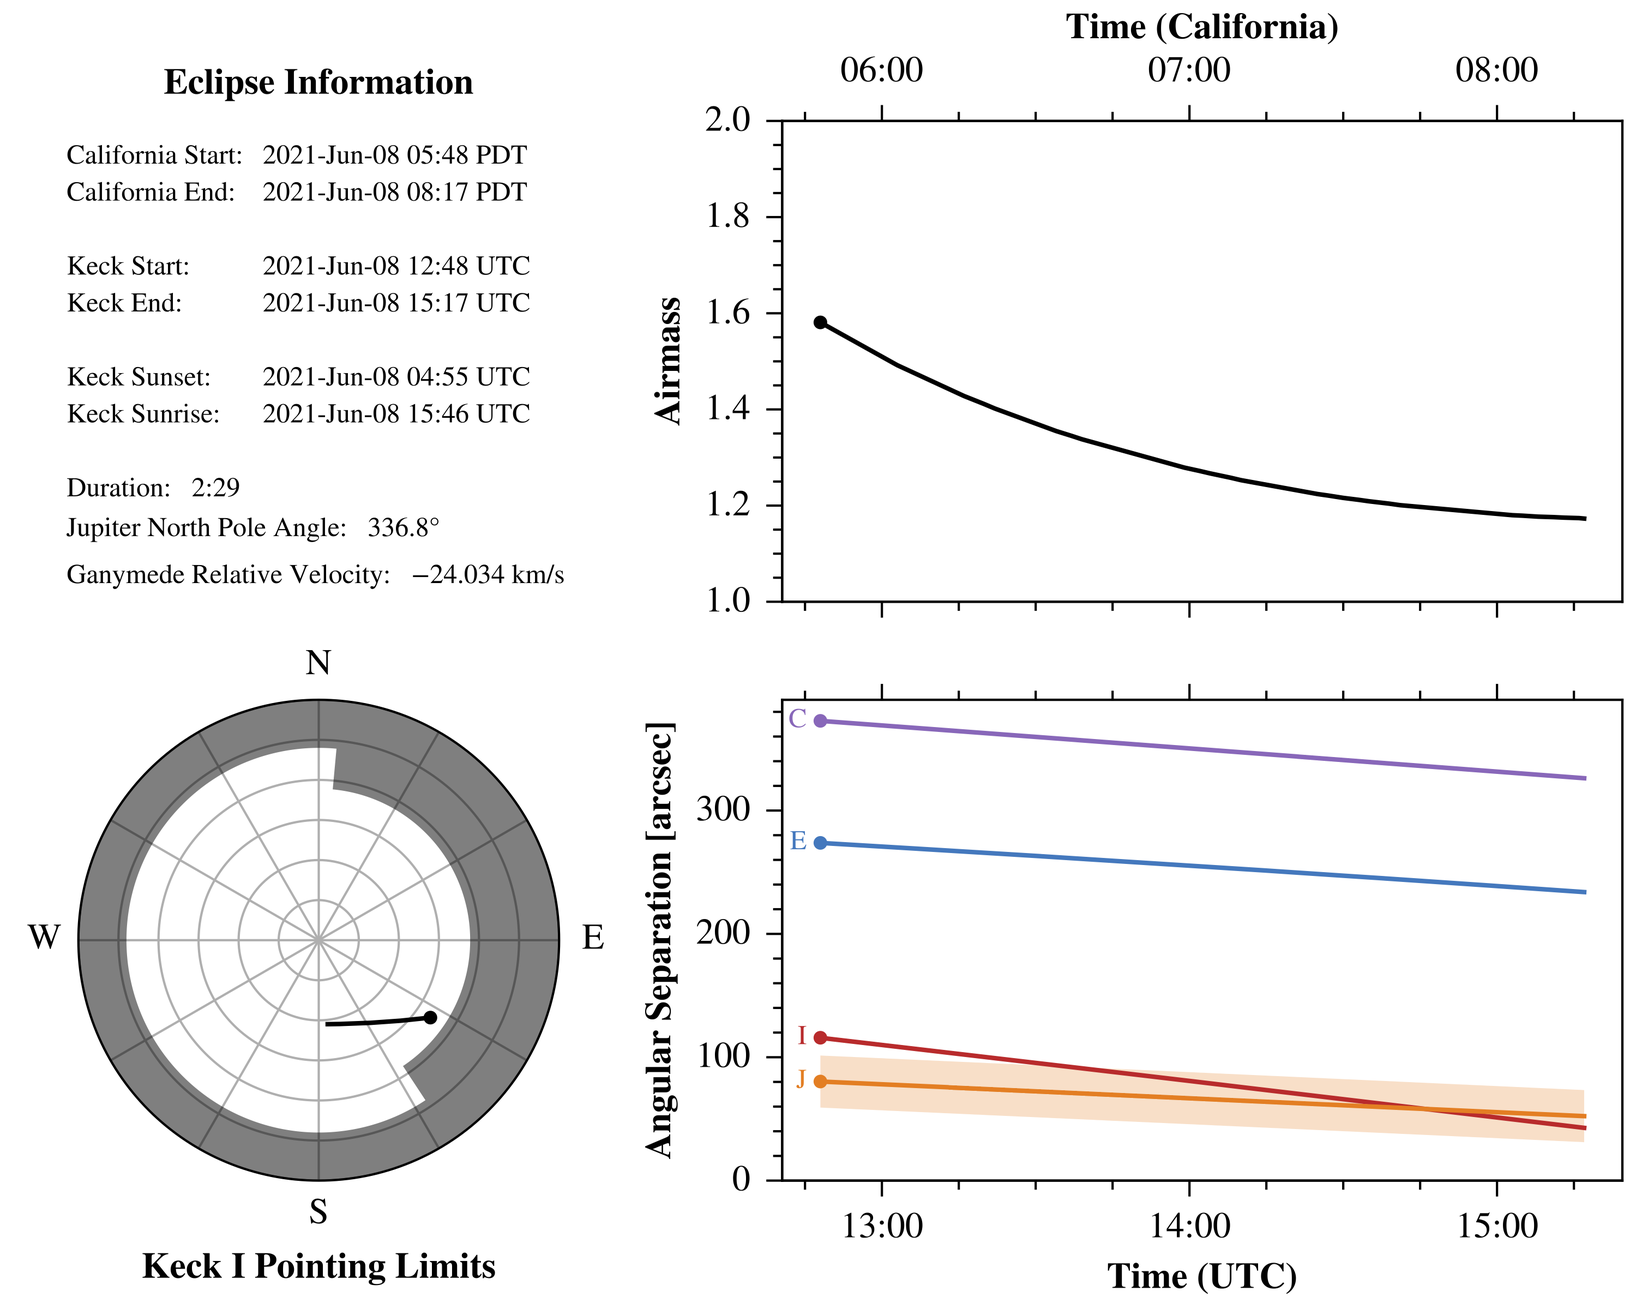
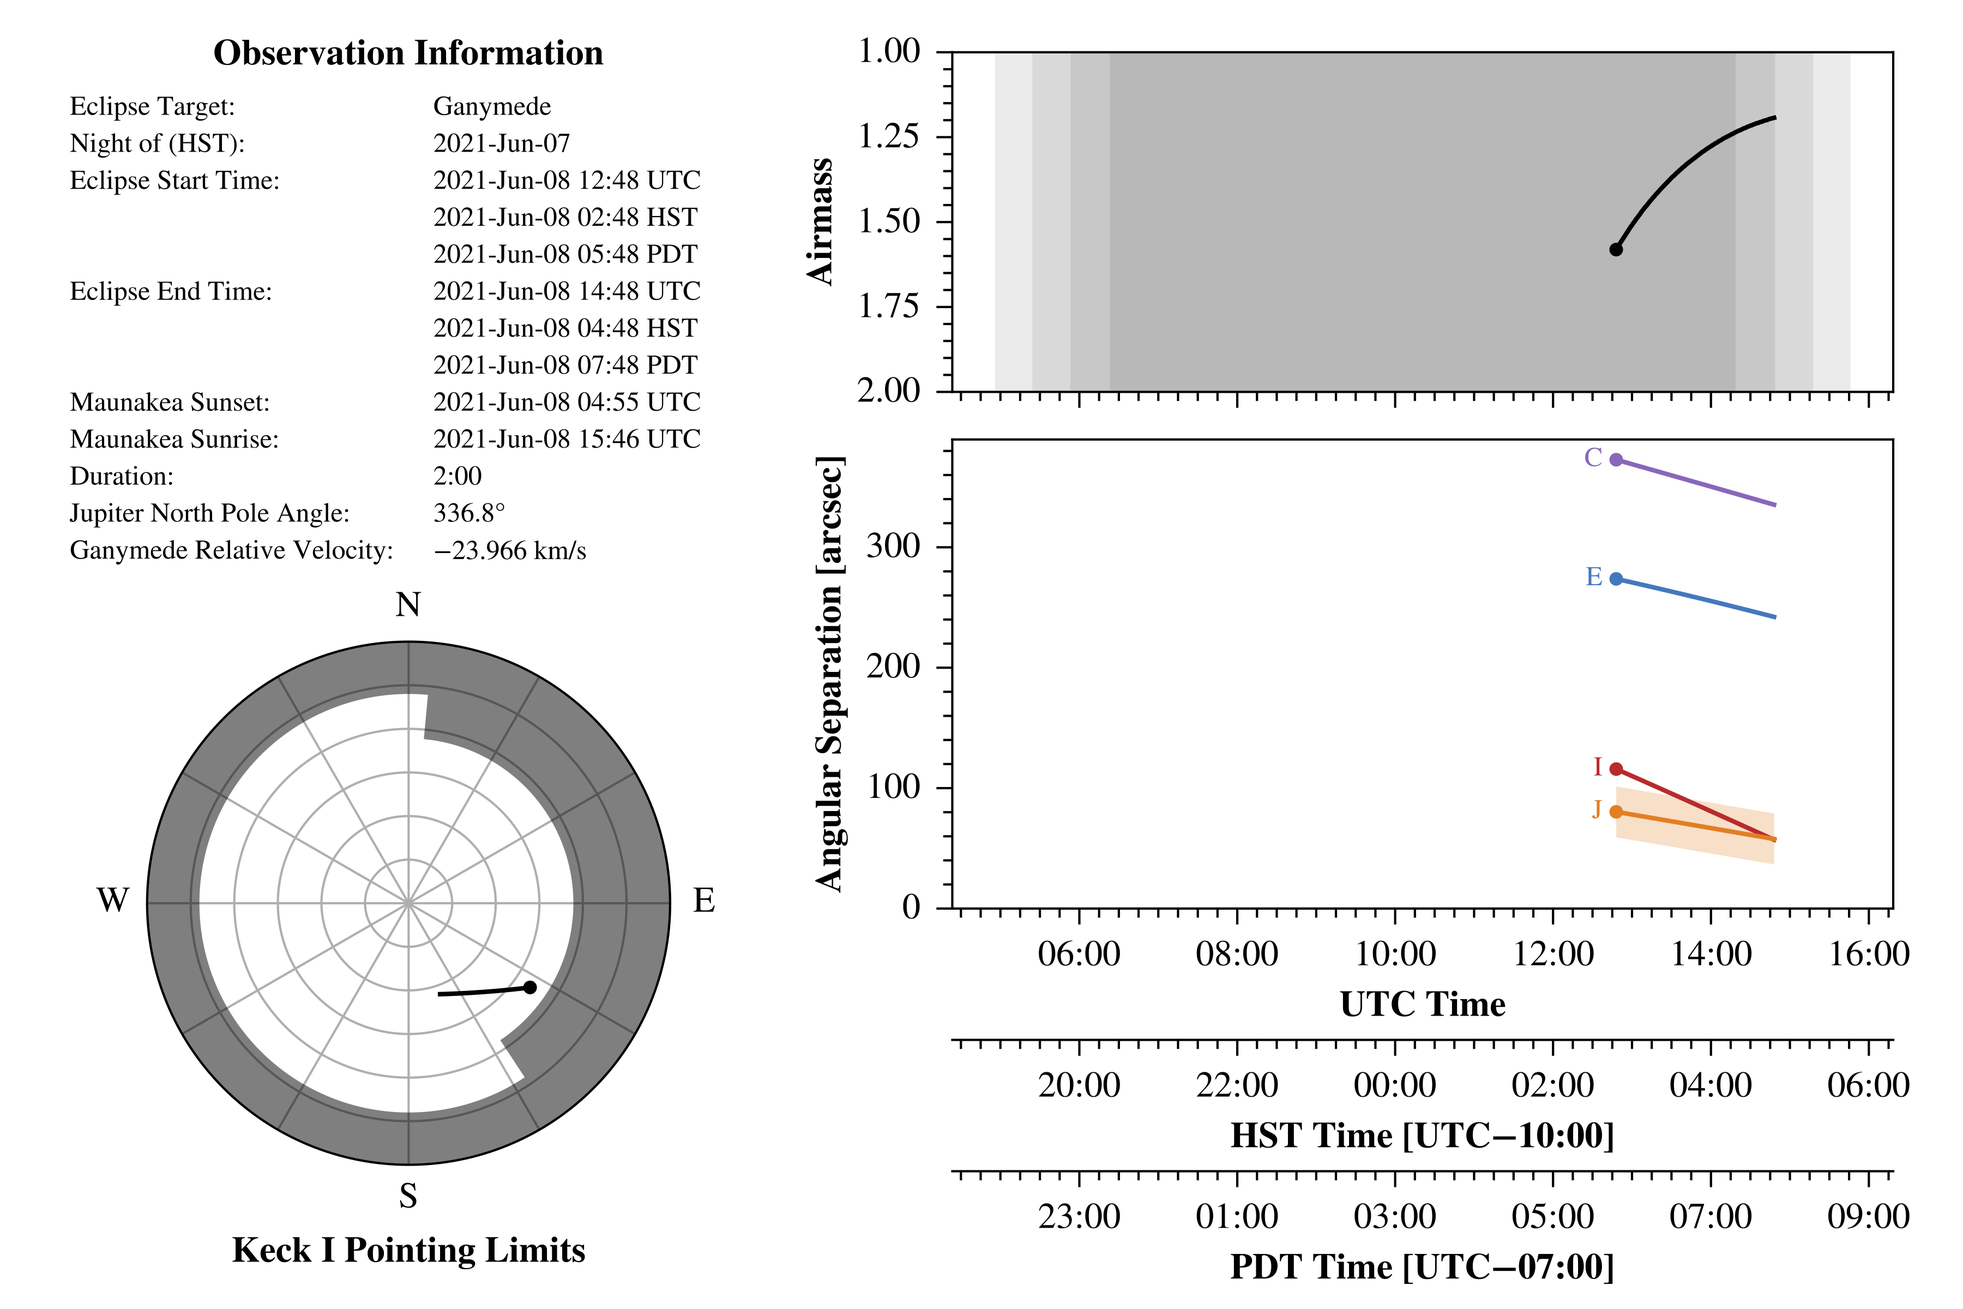
Updated eclipse prediction graphic

diff --git a/hiresaurora/planning.py b/hiresaurora/planning.py
@@ -58,6 +58,16 @@ def _convert_to_california_time(utc_time_string: str) -> datetime.datetime:
     return datetime_object.astimezone(timezone)
 
 
+def _convert_to_hawaii_time(utc_time_string: str) -> datetime.datetime:
+    """
+    Convert a UTC datetime string to local time at Caltech.
+    """
+    datetime_object = _convert_string_to_datetime(utc_time_string)
+    timezone = pytz.timezone('Pacific/Honolulu')
+    datetime_object = pytz.utc.localize(datetime_object)
+    return datetime_object.astimezone(timezone)
+
+
 def _calculate_duration(starting_time: str, ending_time: str) -> str:
     """
     Determine duration between two datetime strings to minute precision.
@@ -106,24 +116,15 @@ def _keck_one_alt_az_axis(axis: plt.Axes) -> plt.Axes:
     return axis
 
 
-def _format_axis_date_labels(utc_axis: plt.Axes) -> plt.Axes:
-    """
-    Format axis date labels so that major ticks occur every hour and minor
-    ticks occur every 15 minutes. Also creates a new axis with local
-    California time as the upper horizontal axis.
-    """
-    utc_axis.xaxis.set_major_formatter(dates.DateFormatter('%H:%M'))
-    utc_axis.xaxis.set_major_locator(dates.HourLocator(interval=1))
-    utc_axis.xaxis.set_minor_locator(
+def _set_date_axis_format(axis, null=False, tz=None):
+    axis.xaxis.set_major_locator(
+        dates.HourLocator(byhour=np.arange(0, 24, 1), interval=2))
+    axis.xaxis.set_major_formatter(
+        dates.DateFormatter('%H:%M', tz=tz, usetex=False))
+    axis.xaxis.set_minor_locator(
         dates.MinuteLocator(byminute=np.arange(0, 60, 15), interval=1))
-    pacific_axis = utc_axis.twiny()
-    pacific_axis.set_xlim(utc_axis.get_xlim())
-    pacific_axis.xaxis.set_major_formatter(
-        dates.DateFormatter('%H:%M', tz=pytz.timezone('US/Pacific')))
-    pacific_axis.xaxis.set_major_locator(dates.HourLocator(interval=1))
-    pacific_axis.xaxis.set_minor_locator(
-        dates.MinuteLocator(byminute=np.arange(0, 60, 15), interval=1))
-    return pacific_axis
+    if null:
+        plt.setp(axis.get_xticklabels(), visible=False)
 
 
 class _AngularSeparation:
@@ -274,11 +275,17 @@ class EclipsePrediction:
         self._ending_datetime = ending_datetime
         self._minimum_deltav = self._convert_deltav(minimum_deltav)
         self._eclipses = self._find_eclipses()
+        self._print_string = self._get_print_string()
+        if self._print_string is None:
+            self._eclipses = []
         if print_results:
-            print(self._print_string())
+            if self._print_string is None:
+                print('Sorry, no usable eclipses found!')
+            else:
+                print(self._print_string)
 
     def __str__(self):
-        return self._print_string()
+        return self._print_string
 
     @staticmethod
     def _convert_deltav(deltav: int | float):
@@ -337,19 +344,16 @@ class EclipsePrediction:
             data.append(refined_ephemeris)
         return data
 
-    def _print_string(self) -> str:
+    def _get_print_string(self) -> str or None:
         """
         Format a terminal-printable summary table of the identified eclipses
         along with starting/ending times in both UTC and local California time,
         the duration of the eclipse, the range in airmass and the satellite's
         relative velocity.
         """
-        if len(self._eclipses) == 0:
-            return 'Sorry, no eclipses found!'
         df = pd.DataFrame(
-            columns=['Starting Time (Keck/UTC)', 'Ending Time (Keck/UTC)',
-                     'Starting Time (California)', 'Ending Time (California)',
-                     'Duration', 'Airmass Range', 'Relative Velocity'])
+            columns=['Start (UTC)', 'End (UTC)', 'Duration', 'Airmass',
+                     'Relative Velocity'])
         for eclipse in range(len(self._eclipses)):
             relative_velocity = np.mean(self._eclipses[eclipse]['delta_rate'])
             if np.abs(relative_velocity) < self._minimum_deltav.value:
@@ -358,26 +362,26 @@ class EclipsePrediction:
             airmass = self._eclipses[eclipse]['airmass']
             starting_time_utc = times[0]
             ending_time_utc = times[-1]
+            start_utc = _convert_ephemeris_date_to_string(starting_time_utc)
+            end_utc = _convert_ephemeris_date_to_string(ending_time_utc)
             data = {
-                'Starting Time (Keck/UTC)':
-                    _convert_ephemeris_date_to_string(starting_time_utc),
-                'Ending Time (Keck/UTC)':
-                    _convert_ephemeris_date_to_string(ending_time_utc),
-                'Starting Time (California)': _convert_datetime_to_string(
-                    _convert_to_california_time(starting_time_utc)),
-                'Ending Time (California)': _convert_datetime_to_string(
-                    _convert_to_california_time(ending_time_utc)),
+                'Start (UTC)': start_utc,
+                'End (UTC)': end_utc,
                 'Duration':
                     _calculate_duration(starting_time_utc, ending_time_utc),
-                'Airmass Range':
+                'Airmass':
                     f"{np.min(airmass):.3f} to {np.max(airmass):.3f}",
                 'Relative Velocity': f"{relative_velocity:.1f} km/s"
             }
             df = pd.concat([df, pd.DataFrame(data, index=[0])])
-        print(f'\n{len(df)} {self._target_name} eclipse(s) '
-              f'identified between {self._starting_datetime} and '
-              f'{self._ending_datetime}.\n')
-        return pd.DataFrame(df).to_string(index=False, justify='left')
+        if (len(self._eclipses) == 0) or (len(df) == 0):
+            return None
+        else:
+            print(f'\n{len(df)} usable {self._target_name} eclipse(s) '
+                  f'identified between {self._starting_datetime} and '
+                  f'{self._ending_datetime}.\n')
+            return pd.DataFrame(df).to_string(index=False, justify='left',
+                                              col_space=[19, 19, 10, 16, 17])
 
     @staticmethod
     def _plot_line_with_initial_position(
@@ -415,43 +419,66 @@ class EclipsePrediction:
             times = dates.datestr2num(times)
             polar_angle = 'unknown'
             observer = Observer.at_site('Keck')
-            sunset = observer.sun_set_time(
-                Time(_convert_string_to_datetime(starting_time)),
-                which='nearest')
-            sunset = _convert_datetime_to_string(sunset.datetime)
-            sunrise = observer.sun_rise_time(
-                Time(_convert_string_to_datetime(ending_time)),
-                which='nearest')
-            sunrise = _convert_datetime_to_string(sunrise.datetime)
 
             # make figure and place axes
             with plt.style.context(rcparams):
-                fig = plt.figure(figsize=(5, 4), constrained_layout=True)
-                gs = gridspec.GridSpec(nrows=2, ncols=2, width_ratios=[1, 1.5],
-                                       figure=fig)
-                info_axis = fig.add_subplot(gs[0, 0])
+                fig = plt.figure(figsize=(6, 4), constrained_layout=True)
+                gs0 = gridspec.GridSpec(1, 2, figure=fig,
+                                        width_ratios=[1, 1.5])
+                gs1 = gridspec.GridSpecFromSubplotSpec(
+                    2, 1, subplot_spec=gs0[0], height_ratios=[1, 1.5])
+                gs2 = gridspec.GridSpecFromSubplotSpec(
+                    2, 1, subplot_spec=gs0[1], height_ratios=[0.42, 1-0.42])
+                info_axis = fig.add_subplot(gs1[0])
                 info_axis.set_frame_on(False)
                 info_axis.set_xticks([])
                 info_axis.set_yticks([])
                 alt_az_polar_axis = _keck_one_alt_az_axis(
-                    fig.add_subplot(gs[1, 0], projection='polar'))
-                airmass_axis_utc = fig.add_subplot(gs[0, 1])
+                    fig.add_subplot(gs1[1], projection='polar'))
+                airmass_axis_utc = fig.add_subplot(gs2[0])
                 airmass_axis_utc.set_ylabel('Airmass', fontweight='bold')
-                primary_sep_axis_utc = fig.add_subplot(gs[1, 1])
+                primary_sep_axis_utc = fig.add_subplot(
+                    gs2[1], sharex=airmass_axis_utc)
                 primary_sep_axis_utc.set_ylabel('Angular Separation [arcsec]',
                                                 fontweight='bold')
+
+                # twilight regions
+                start = Time(_convert_string_to_datetime(starting_time))
+                sunset = observer.sun_set_time(start, which='nearest')
+                sunrise = observer.sun_rise_time(start, which='next')
+                params = dict(time=sunset, which='next')
+                twilights = [
+                    sunset,
+                    observer.twilight_evening_civil(**params),
+                    observer.twilight_evening_nautical(**params),
+                    observer.twilight_evening_astronomical(**params),
+                    observer.twilight_morning_astronomical(**params),
+                    observer.twilight_morning_nautical(**params),
+                    observer.twilight_morning_civil(**params),
+                    observer.sun_rise_time(**params),
+                ]
+
+                # add 'UTC' to each datetime object created above
+                twilights = [t.datetime.replace(tzinfo=pytz.utc)
+                             for t in twilights]
+
+                params = dict(color='k', alpha=0.08, linewidth=0)
+                airmass_axis_utc.axvspan(twilights[3], twilights[4], **params)
+                airmass_axis_utc.axvspan(twilights[2], twilights[5], **params)
+                airmass_axis_utc.axvspan(twilights[1], twilights[6], **params)
+                airmass_axis_utc.axvspan(twilights[0], twilights[7], **params)
 
                 # plot data
                 self._plot_line_with_initial_position(
                     alt_az_polar_axis,
                     np.radians(self._eclipses[eclipse]['AZ']),
                     self._eclipses[eclipse]['EL'], color='k')
+
+                times = [dates.num2date(i, tz=pytz.utc) for i in times]
                 self._plot_line_with_initial_position(
                     airmass_axis_utc, times,
                     self._eclipses[eclipse]['airmass'],
                     color='k')
-                airmass_axis_california = _format_axis_date_labels(
-                    airmass_axis_utc)
                 for ind, target in enumerate(
                         [target_info[key]['ID']
                          for key in target_info.keys()]):
@@ -472,52 +499,90 @@ class EclipsePrediction:
                                 list(target_info.keys())[ind]]['color'],
                             label=angular_separation.target_2_ephemeris[
                                 'targetname'][0][0], radius=radius)
-                primary_sep_axis_california = _format_axis_date_labels(
-                    primary_sep_axis_utc)
 
                 # information string, it's beastly but I don't know a better
                 # way of doing it...
-                info_string = 'California Start:' + '\n'
-                info_string += 'California End:' + '\n' * 2
-                info_string += 'Keck Start:' + '\n'
-                info_string += 'Keck End:' + '\n' * 2
-                info_string += 'Keck Sunset:' + '\n'
-                info_string += 'Keck Sunrise:' + '\n' * 2
-                info_string += f'Duration:   {duration}' + '\n'
-                info_string += 'Jupiter North Pole Angle:   '
-                info_string += fr"{polar_angle:.1f}$\degree$" + '\n'
-                info_string += f'{self._target_name} Relative Velocity:   '
-                info_string += \
-                    fr"${np.mean(self._eclipses[eclipse]['delta_rate']):.3f}$ "
-                info_string += 'km/s'
-                times_string = _convert_datetime_to_string(
-                    _convert_to_california_time(starting_time))
-                times_string += '\n'
-                times_string += _convert_datetime_to_string(
-                    _convert_to_california_time(ending_time))
-                times_string += '\n' * 2
+
+                night_of = _convert_to_hawaii_time(
+                    _convert_datetime_to_string(
+                        sunset.to_datetime()))
+                night_of_tz = night_of.strftime("%Z")
+
+                info_string = 'Eclipse Target:' + '\n'
+                info_string += f'Night of ({night_of_tz}):' + '\n'
+                info_string += 'Eclipse Start Time:' + '\n' * 3
+                info_string += 'Eclipse End Time:' + '\n' * 3
+                info_string += 'Maunakea Sunset:' + '\n'
+                info_string += 'Maunakea Sunrise:' + '\n'
+                info_string += f'Duration:' + '\n'
+                info_string += 'Jupiter North Pole Angle:' + '\n'
+                info_string += f'{self._target_name} Relative Velocity:'
+
+                night_of_date = night_of.strftime("%Y-%b-%d")
+                times_string = f'{self._target_name}' + '\n'
+                times_string += f'{night_of_date}' + '\n'
                 times_string += f'{starting_time} UTC' + '\n'
+                times_string += _convert_datetime_to_string(
+                    _convert_to_hawaii_time(starting_time)) + '\n'
+                times_string += _convert_datetime_to_string(
+                    _convert_to_california_time(starting_time)) + '\n'
                 times_string += f'{ending_time} UTC' + '\n'
-                times_string += '\n'
+                times_string += _convert_datetime_to_string(
+                    _convert_to_hawaii_time(ending_time)) + '\n'
+                times_string += _convert_datetime_to_string(
+                    _convert_to_california_time(ending_time)) + '\n'
+                sunset = _convert_datetime_to_string(sunset.datetime)
                 times_string += f'{sunset} UTC' + '\n'
-                times_string += f'{sunrise} UTC'
-                info_axis.text(0.05, 0.95, info_string, linespacing=1.67,
-                               ha='left', va='top', fontsize=6)
-                info_axis.text(0.4, 0.95, times_string, linespacing=1.67,
-                               ha='left', va='top',
-                               transform=info_axis.transAxes, fontsize=6)
-                info_axis.set_title('Eclipse Information', fontweight='bold')
+                sunrise = _convert_datetime_to_string(sunrise.datetime)
+                times_string += f'{sunrise} UTC' + '\n'
+                times_string += f'{duration}' + '\n'
+                times_string += f"{polar_angle:.1f}\u00b0" + '\n'
+                times_string += \
+                    fr"${np.mean(self._eclipses[eclipse]['delta_rate']):.3f}$ "
+                times_string += 'km/s'
+
+                info_axis.annotate(info_string, xy=(0, 1), linespacing=1.67,
+                                   ha='left', va='top', fontsize=6,
+                                   xytext=(0, -1), textcoords='offset points')
+                info_axis.annotate(times_string, xy=(0, 1), linespacing=1.67,
+                                   ha='left', va='top', fontsize=6,
+                                   xytext=(80, -1), textcoords='offset points')
+                info_axis.set_title(
+                    'Observation Information', fontweight='bold')
 
                 # set axis labels, limits and other parameters
-                airmass_axis_california.set_xlabel('Time (California)',
-                                                   fontweight='bold')
-                airmass_axis_utc.set_xticklabels([])
-                primary_sep_axis_utc.set_xlabel('Time (UTC)',
-                                                fontweight='bold')
-                primary_sep_axis_california.set_xticklabels([])
+                _set_date_axis_format(airmass_axis_utc, null=True)
+                _set_date_axis_format(primary_sep_axis_utc)
+                primary_sep_axis_utc.set_xlabel(
+                    'UTC Time', fontweight='bold')
+
+                dy = 0.28
+                primary_sep_axis_hi = \
+                    primary_sep_axis_utc.secondary_xaxis(-dy)
+                _set_date_axis_format(primary_sep_axis_hi,
+                                      tz=pytz.timezone('Pacific/Honolulu'))
+                tz_str = _convert_datetime_to_string(
+                    _convert_to_hawaii_time(starting_time)).split(' ')[-1]
+                offset = str(_convert_to_hawaii_time(starting_time))[-6:]
+                offset = offset.replace('-', '\u2212')
+                primary_sep_axis_hi.set_xlabel(
+                    f'{tz_str} Time [UTC{offset}]', fontweight='bold')
+
+                primary_sep_axis_ca = \
+                    primary_sep_axis_utc.secondary_xaxis(-2*dy)
+                _set_date_axis_format(primary_sep_axis_ca,
+                                      tz=pytz.timezone('America/Los_Angeles'))
+                tz_str = _convert_datetime_to_string(
+                    _convert_to_california_time(starting_time)).split(' ')[-1]
+                offset = str(_convert_to_california_time(starting_time))[-6:]
+                offset = offset.replace('-', '\u2212')
+                primary_sep_axis_ca.set_xlabel(
+                    f'{tz_str} Time [UTC{offset}]', fontweight='bold')
+
                 alt_az_polar_axis.set_rmin(90)
                 alt_az_polar_axis.set_rmax(0)
                 airmass_axis_utc.set_ylim(1, 2)
+                airmass_axis_utc.invert_yaxis()
                 primary_sep_axis_utc.set_ylim(bottom=0)
 
                 # save the figure
@@ -528,6 +593,9 @@ class EclipsePrediction:
                                 f'{filename_date_str.lower()}.pdf')
                 if not filepath.parent.exists():
                     filepath.mkdir(parents=True)
+                engine = fig.get_layout_engine()
+                dd = 0.02
+                engine.set(rect=(dd, dd, 1-2*dd, 1-2*dd))
                 plt.savefig(filepath)
                 plt.close(fig)
 

diff --git a/README.md b/README.md
@@ -81,15 +81,25 @@ Here's an example of what one of those graphics looks like:
 
 ![](hiresaurora/anc/sample_graphic.png)
 
-It includes the starting and ending times in local California time (so you know 
-how awful of a night you'll have) and UTC, the closest sunrise and sunset times 
+It includes the night-of in Hawaii local time (for planning purposes), starting 
+and ending times in UTC, Hawaii and California time (so you know how awful of a 
+night you'll have), the closest sunrise and sunset times 
 to the eclipse, the duration of the eclipse in HH:MM format, the rotation angle 
 of Jupiter's north pole and Ganymede's relative velocity. The lower left 
 graphic shows the position of the target satellite during the eclipse in 
 altitude/azimuth coordinates with an overlay of the Keck I pointing limits. The 
 upper right plot shows the target satellite airmass over the course of the 
-eclipse. The lower right plot shows the angular separation between the target 
-satellite, Jupiter and the other Galilean satellites.
+eclipse, with the background shading showing civil, nautical and astronomical 
+twilights along with night. This example eclipse goes beyond the end of 
+astronomical twilight, so the eclipse effectively ends earlier than Ganymede's 
+emergence from Jupiter's shadow. The lower right plot shows the angular 
+separation between the target satellite and Jupiter and the other Galilean 
+satellites. The right two plots share a common horizontal axis, and the three 
+relevant timeframes (UTC, Hawaii and California) appear below them. Notice that
+both the Hawaii and California times actually include midnight, so they begin 
+on June 7, not June 8 like UTC does. I've tried to indicate this with the UTC
+offset, but I couldn't really come up with a good way to show the change from 
+one date to another.
 
 I've also included the ability to automatically generate the list of offsets 
 and rates for manual telescope pointing and tracking. For example, if you are 
